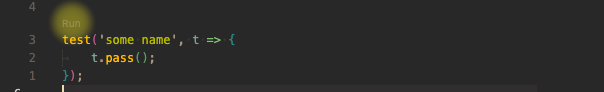
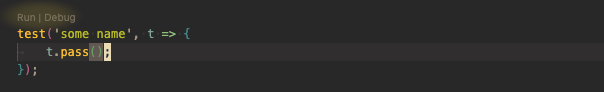
Bump pkg

diff --git a/README.md b/README.md
@@ -5,13 +5,13 @@ Visual Studio Code [AVA](https://github.com/avajs/ava) test runner. This extensi
 
 ## Features
 
-Run test file via VS Code command or test case via Code Lens
+Run and debug test file via VS Code command or test case via Code Lens
 
 ![code lens](images/readme.png)
 ## Requirements
 
 - This extension assume the project uses & has installed `AVA` package.
-- Extension commands are run via `npx`.
+- Extension commands are run via `npx`. Should work even if you use `pnpm`.
 
 ## Extension Settings
 
